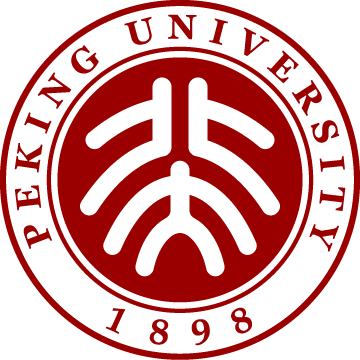
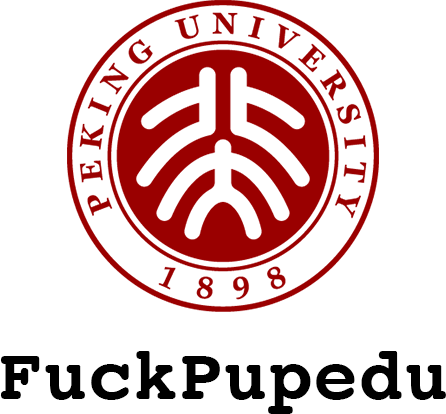
readme

diff --git a/README.md b/README.md
@@ -1,5 +1,4 @@
-<div align=center><img src="assets/icon.png" height=150></div>
-<h1 align=center><font face="courier new">FuckPupedu</font></h1>
+<div align=center><img src="assets/icon.png" height=250></div>
 
 ## 简介
 
@@ -7,7 +6,7 @@
 
 ## 使用方法
 
-1. 安装 [Python 3.6+](https://www.python.org/downloads/)
+1. 安装 [Python 3.6+](https://www.python.org/downloads/) 和 [Chrome](https://www.google.cn/intl/zh-CN/chrome/) 浏览器
 2. 将本仓库克隆至本地
    
     ```bash
@@ -35,6 +34,11 @@
 ## 它不能做什么 (你需要做什么)
 
 它不能浏览 PPT ，完成测验，参与可能的"讨论" (欢迎 PR! )
+
+## 使用过程中，需要注意什么
+
+- 建议夜间插电挂机使用 (视频总时长超过20小时😴)
+- 使用时建议关闭网络代理
 
 ## LICENSE
 
